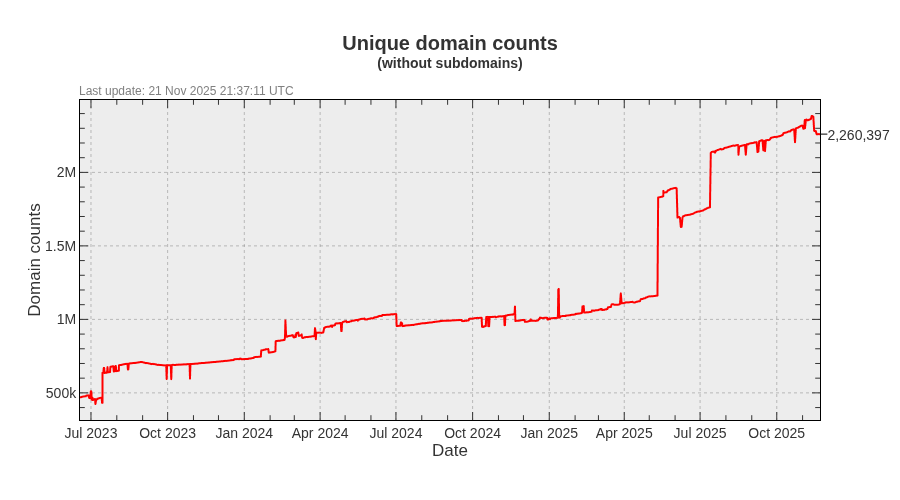
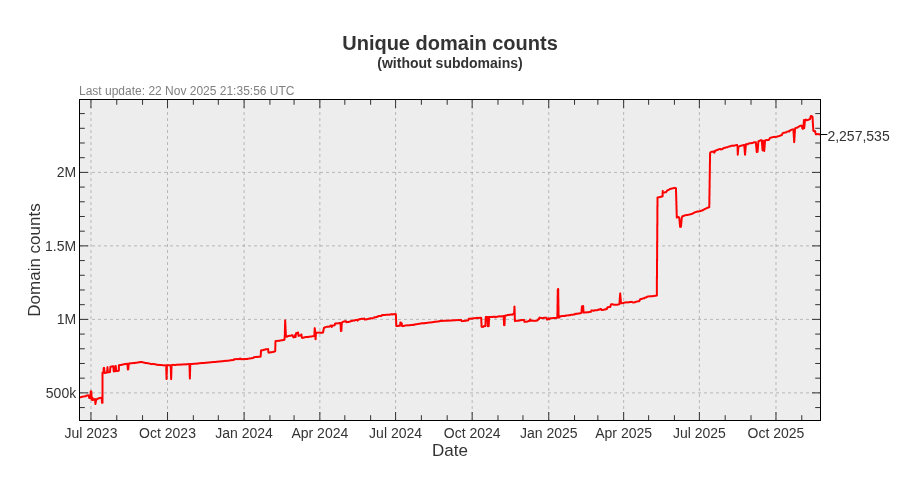
Update pages

diff --git a/README.md b/README.md
@@ -3,22 +3,22 @@ A blocklist file for blocking ads, trackers and malware domains.
 
[1 lines of base64/hex data omitted]
 
-- Unique domains: 2,958,972
-- Without subdomains: 2,260,397
-- Last update: 21 Nov 2025 21:37:11 UTC
-- Version: 2025.11.21.01
+- Unique domains: 2,956,104
+- Without subdomains: 2,257,535
+- Last update: 22 Nov 2025 21:35:56 UTC
+- Version: 2025.11.22.01
 
 
 ### Downloads:
 
 | Format             | Domain count      | Download Link |
 |:------------------ | -----------------:|:-------------:|
-| *Adblock Plus*     | 2,260,397 | [Download](https://dl.cenk.app/bad-hosts/bad-hosts-abp) |
-| *Wildcard domains* | 2,260,397 | [Download](https://dl.cenk.app/bad-hosts/bad-hosts-wildcard) |
-| *dnsmasq*          | 2,260,397 | [Download](https://dl.cenk.app/bad-hosts/bad-hosts-dnsmasq) |
-| *hosts*            | 2,958,972 | [Download](https://dl.cenk.app/bad-hosts/hosts) |
-| *hosts (ipv6)*     | 2,958,972 | [Download](https://dl.cenk.app/bad-hosts/hosts-ipv6) |
-| *Plain domains*    | 2,958,972 | [Download](https://dl.cenk.app/bad-hosts/bad-hosts-domains) |
+| *Adblock Plus*     | 2,257,535 | [Download](https://dl.cenk.app/bad-hosts/bad-hosts-abp) |
+| *Wildcard domains* | 2,257,535 | [Download](https://dl.cenk.app/bad-hosts/bad-hosts-wildcard) |
+| *dnsmasq*          | 2,257,535 | [Download](https://dl.cenk.app/bad-hosts/bad-hosts-dnsmasq) |
+| *hosts*            | 2,956,104 | [Download](https://dl.cenk.app/bad-hosts/hosts) |
+| *hosts (ipv6)*     | 2,956,104 | [Download](https://dl.cenk.app/bad-hosts/hosts-ipv6) |
+| *Plain domains*    | 2,956,104 | [Download](https://dl.cenk.app/bad-hosts/bad-hosts-domains) |
 
 ### Domain count history
 #### With subdomains
